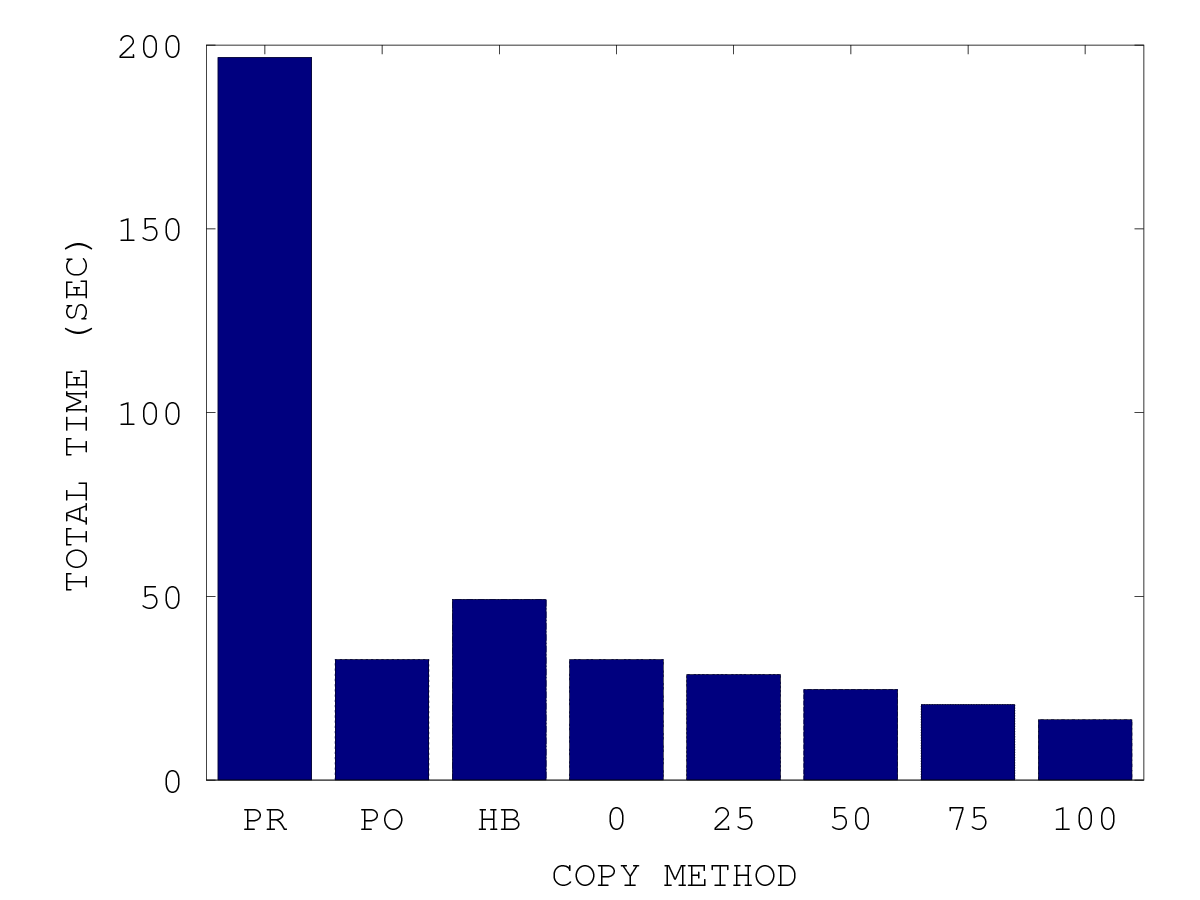
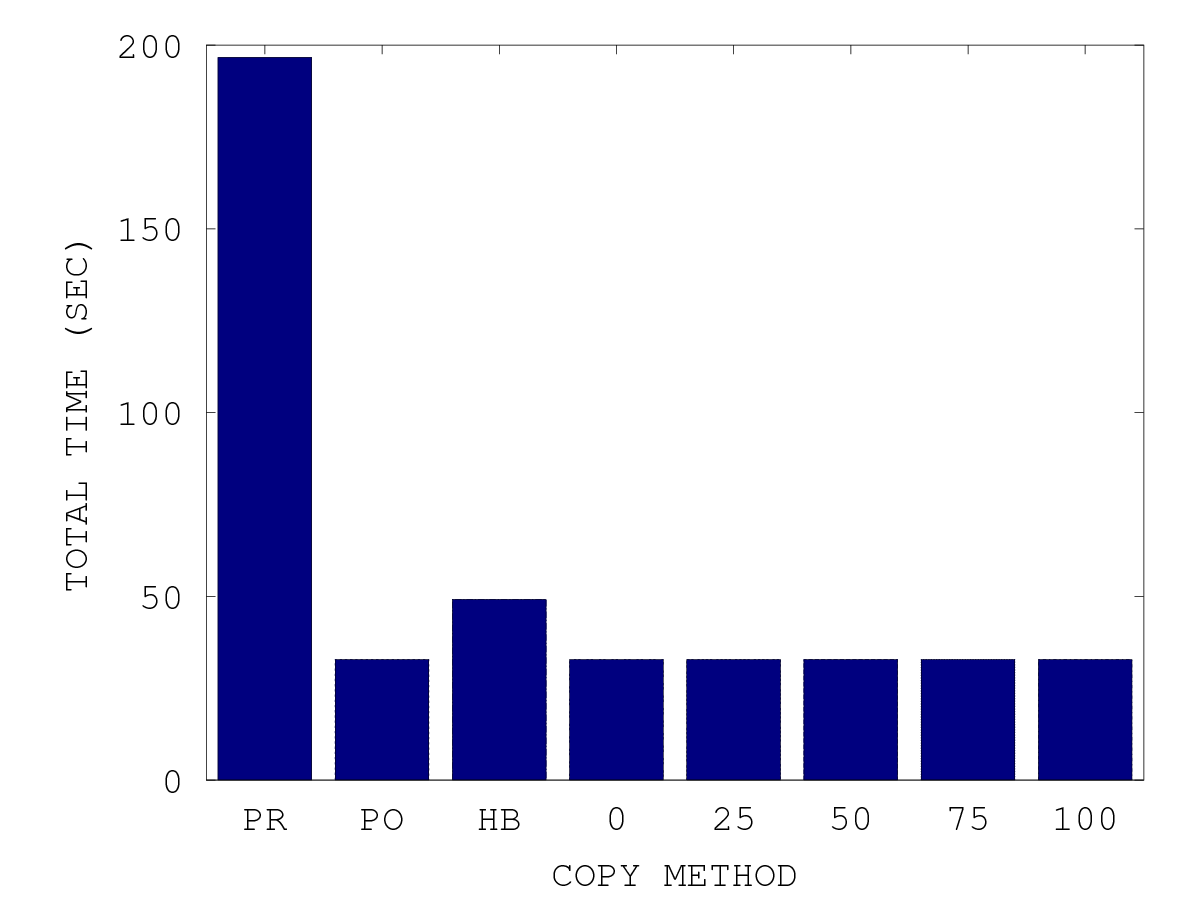
basic.m

Changed region(s): [[0.555, 0.7156, 0.9558, 0.8089]]

diff --git a/basic.m b/basic.m
@@ -215,7 +215,8 @@ function [tt, dt, td] = prohybrid(acc)
 	postsent = (numpages - pred_pages) * pagesize
 
 	% exclude the predicted dirtied pages 
-	pred_dirts = numpages * dirtyrate * acc
+	%pred_dirts = numpages * dirtyrate * acc
+	pred_dirts = 0;
 	postsent = (numpages - pred_pages - pred_dirts) * pagesize
 	posttime = postsent/b
 	totaltime += posttime
